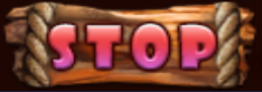
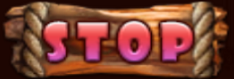
chore: cos pull

diff --git a/src/pages/Safari/index.tsx b/src/pages/Safari/index.tsx
@@ -4,7 +4,8 @@ import Background from '../../assets/background.png';
 import MinusImage from '../../assets/minus.png';
 import PlusImage from '../../assets/plus.png';
 import AutoStartImage from '../../assets/auto_start.png';
-import SponImage from '../../assets/spin.png';
+import SpinImage from '../../assets/spin.png';
+import StopSpinImage from '../../assets/stop.png';
 import MenuBtnImage from '../../assets/menu_btn.png';
 import MenuImage from '../../assets/menu.png';
 import MenuBackImage from '../../assets/menu_back.png';
@@ -21,6 +22,7 @@ const Safari = () => {
   const [line, setLine] = useState(1);
   const [betValue, setBetValue] = useState(0.01);
   const [isSpinning, setIsSpinning] = useState(false);
+  // const [isSpinClicked, setIsSpinClicked] = useState(false);
 
   const handleIncrementLine = () => {
     setLine((prevLine) => (prevLine < 15 ? prevLine + 1 : 1));
@@ -167,16 +169,22 @@ const Safari = () => {
               <p className="gradient-text  text-[36px] font-bold pl-[76px] mt-[-4px]">
                 {line}
               </p>
-              <div className="flex">
+              <div className="flex mt-[2px]">
                 <button
+                  type="submit"
                   onClick={handleDecrementLine}
                   className="h-[81px] w-[173px] focus:outline-none hover:brightness-125 bg-no-repeat bg-center border-none"
-                  style={{ backgroundImage: `url(${MinusImage})` }}
+                  style={{
+                    backgroundImage: isSpinning ? '' : `url(${MinusImage})`,
+                  }}
                 ></button>
                 <button
+                  type="submit"
                   onClick={handleIncrementLine}
                   className="h-[81px] w-[172px] focus:outline-none hover:brightness-125 bg-no-repeat bg-center border-none ml-[-2px]"
-                  style={{ backgroundImage: `url(${PlusImage})` }}
+                  style={{
+                    backgroundImage: isSpinning ? '' : `url(${PlusImage})`,
+                  }}
                 ></button>
               </div>
             </div>
@@ -184,17 +192,23 @@ const Safari = () => {
               <p className="gradient-text text-[36px] font-bold pl-[40px] mt-[-4px]">
                 {(betValue * line).toFixed(2)}
               </p>
-              <div className="flex ml-[6px]">
+              <div className="flex mt-[2px] ml-[7px]">
                 <button
+                  type="submit"
                   onClick={handleDecrementBet}
-                  className="h-[81px] w-[173px] focus:outline-none hover:brightness-125 bg-no-repeat bg-center border-none"
-                  style={{ backgroundImage: `url(${MinusImage})` }}
+                  className="h-[81px] w-[172px] focus:outline-none hover:brightness-125 bg-no-repeat bg-center border-none"
+                  style={{
+                    backgroundImage: isSpinning ? '' : `url(${MinusImage})`,
+                  }}
                 ></button>
                 <button
+                  type="submit"
                   // onMouseEnter={handleIncrementBet}
                   onClick={handleIncrementBet}
                   className="h-[81px] w-[172px] focus:outline-none hover:brightness-125 bg-no-repeat bg-center border-none ml-[-2px]"
-                  style={{ backgroundImage: `url(${PlusImage})` }}
+                  style={{
+                    backgroundImage: isSpinning ? '' : `url(${PlusImage})`,
+                  }}
                 ></button>
               </div>
             </div>
@@ -202,17 +216,24 @@ const Safari = () => {
               <p className="gradient-text text-[36px] font-bold pl-[70px] mt-[-4px]">
                 {(betValue * line).toFixed(2)}
               </p>
-              <div className="flex gap-[6px] ml-[7px]">
+              <div className="flex gap-[6px] mt-[2px] ml-[7px]">
                 <button
+                  type="submit"
                   // onClick={handleDecrementLine}
                   className="h-[81px] w-[243px] focus:outline-none hover:brightness-125 bg-no-repeat bg-center border-none"
-                  style={{ backgroundImage: `url(${AutoStartImage})` }}
+                  style={{
+                    backgroundImage: isSpinning ? '' : `url(${AutoStartImage})`,
+                  }}
                 ></button>
                 <button
                   type="submit"
                   onClick={handleSpinClick}
-                  className="focus:outline-none hover:brightness-125 border-none w-[234px] h-[80px] bg-opacity-0"
-                  style={{ backgroundImage: `url(${SponImage})` }}
+                  className="focus:outline-none hover:brightness-125 border-none w-[234px] h-[79px] bg-opacity-0"
+                  style={{
+                    backgroundImage: isSpinning
+                      ? `url(${StopSpinImage})`
+                      : `url(${SpinImage})`,
+                  }}
                 ></button>
               </div>
             </div>
